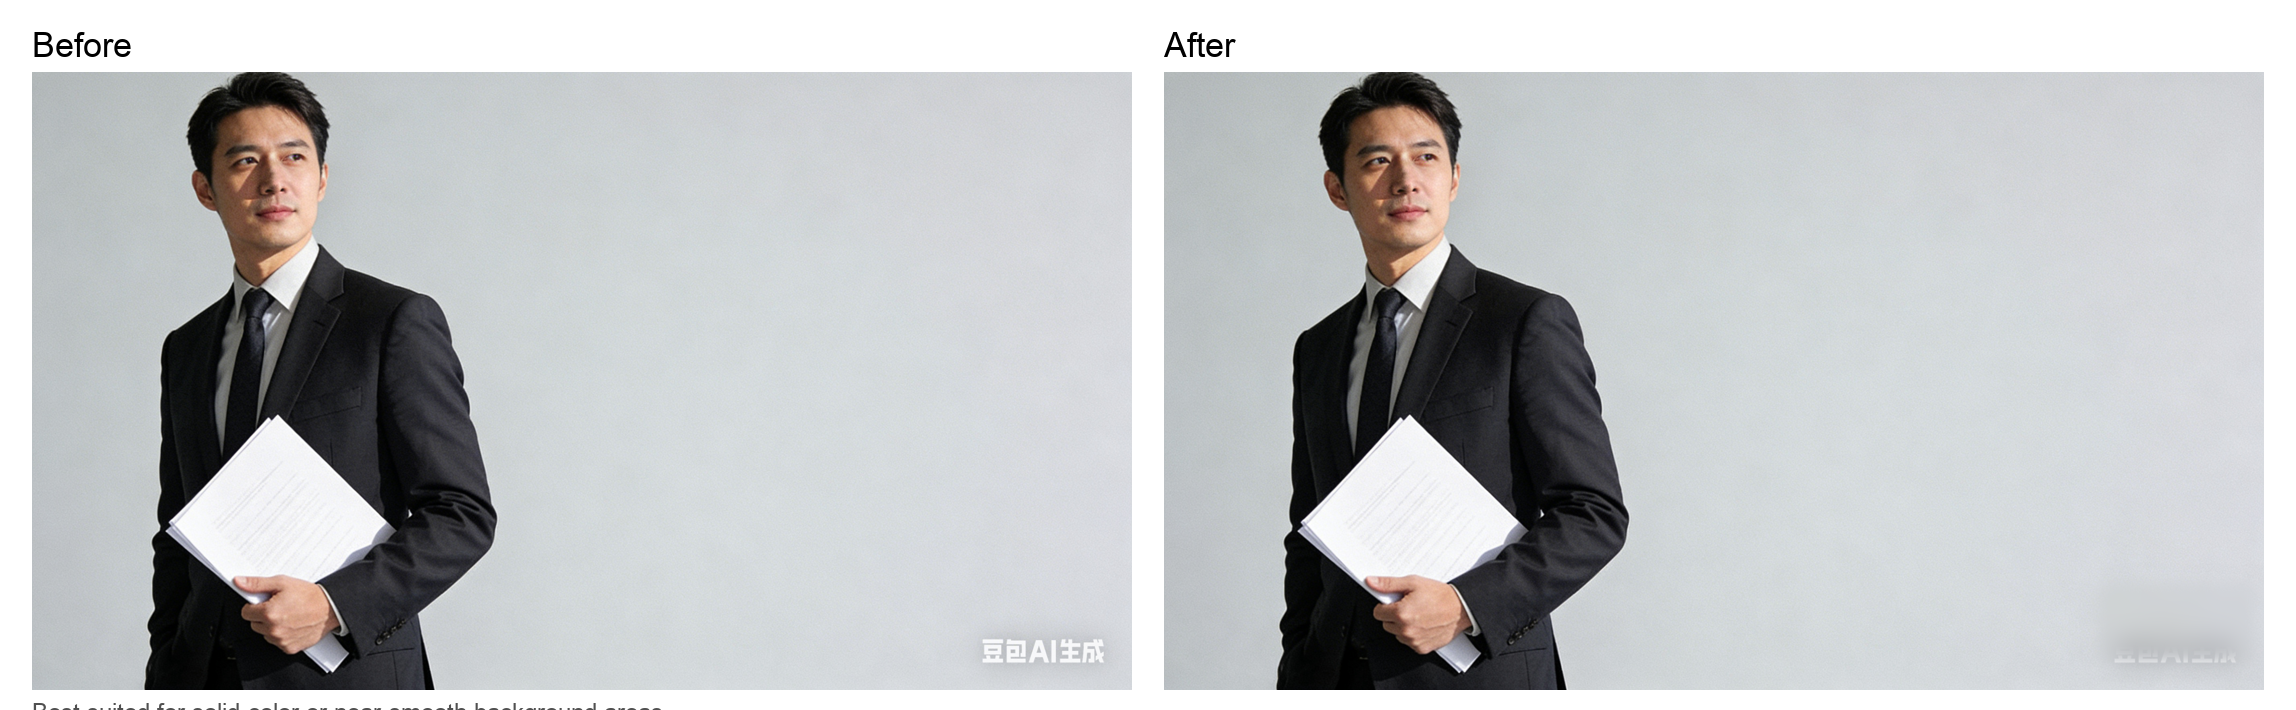
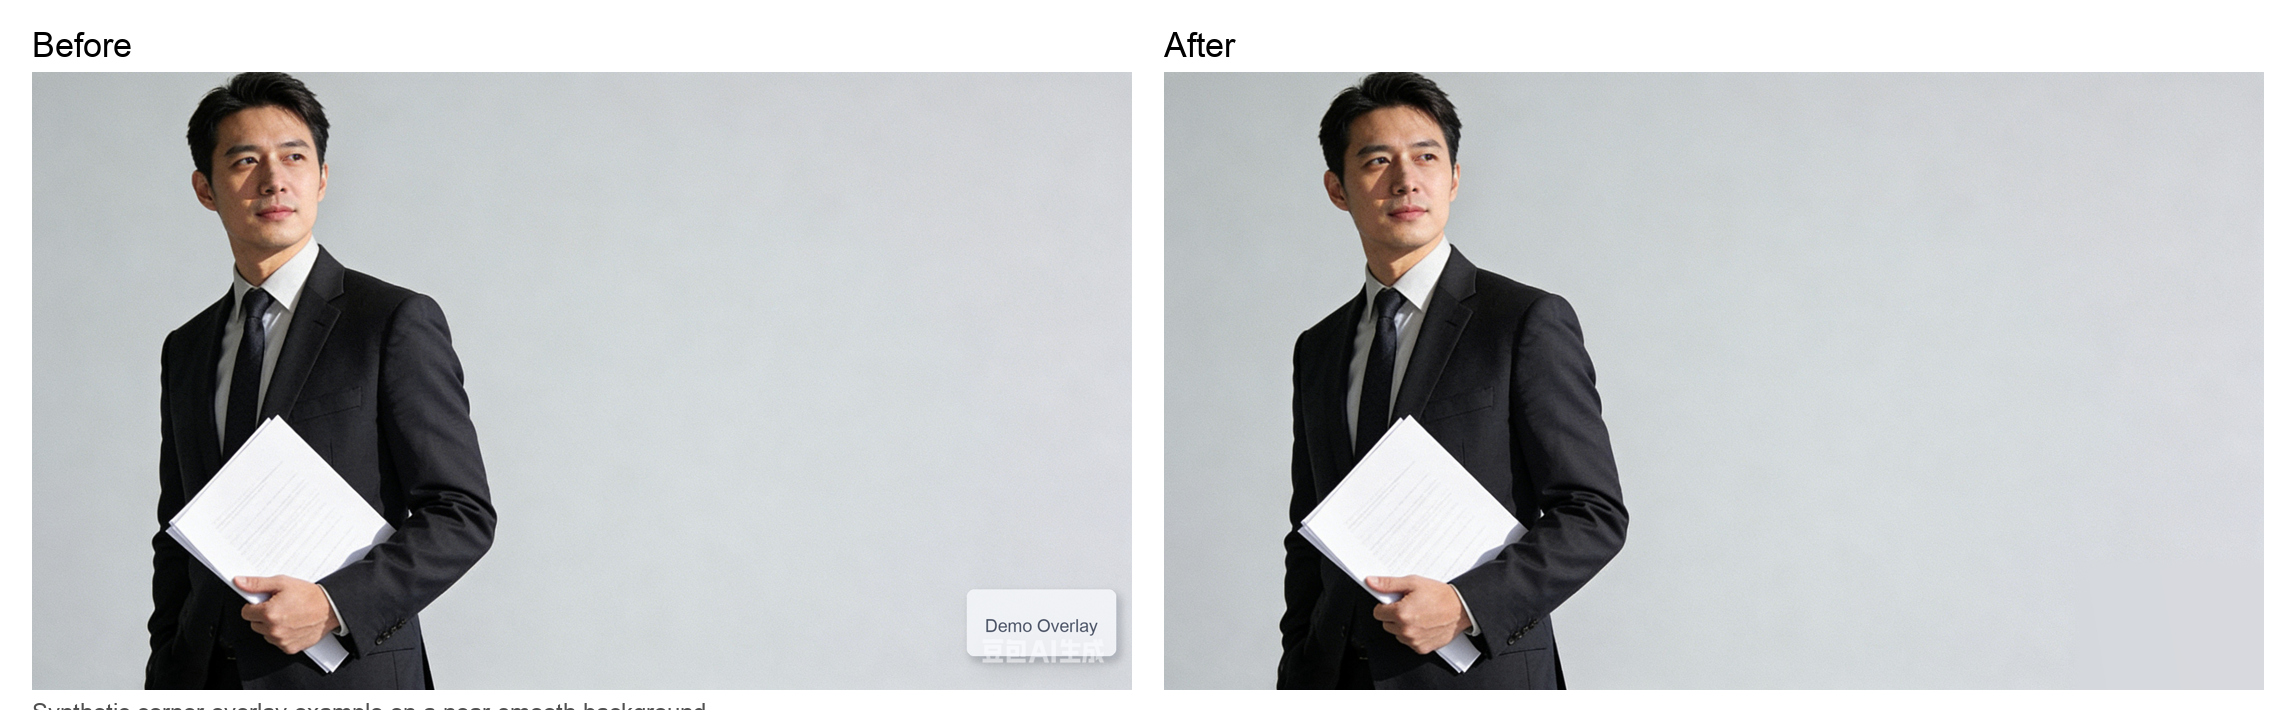
Refine synthetic README example

Changed region(s): [[0.402, 0.8056, 0.4948, 0.9296], [0.0, 0.9915, 0.3092, 1.0], [0.9277, 0.8986, 0.9586, 0.9296]]

diff --git a/README_EN.md b/README_EN.md
@@ -4,6 +4,7 @@
 
 This tool is intended for cleaning up corner text, logos, or other overlays in images you own or are authorized to edit.
 It works best on solid-color, gradient, or near-smooth background areas.
+The comparison image below uses a synthetic corner overlay example to show the recommended use case.
 
 ![Before and after](./assets/before_after_case3.png)
 
@@ -41,7 +42,9 @@ python3 remove_watermark.py -i input.jpg -o output.jpg -m 2
 ```text
 remove_print/
 ├── assets/
-│   └── before_after_case3.png
+│   ├── before_after_case3.png
+│   ├── example_people_clean.png
+│   └── example_people_overlay.png
 ├── remove_watermark.py
 ├── requirements.txt
 ├── README.md
@@ -49,7 +52,7 @@ remove_print/
 ```
 
 - `remove_watermark.py`: CLI entrypoint and main processing logic
-- `assets/`: sample images used by the README
+- `assets/`: sample images and synthetic overlay demo assets used by the README
 - `requirements.txt`: runtime dependencies
 - `README.md` / `README_EN.md`: Chinese and English documentation
 
@@ -59,12 +62,12 @@ Corner overlay cleanup:
 
 ```bash
 python3 remove_watermark.py \
-  -i ./people.png \
-  -o ./people_clean.png \
+  -i ./your_image.png \
+  -o ./your_image_clean.png \
   -m 1 \
   --corner bottom-right \
   --roi 2350,1300,320,130 \
-  --mask-output ./people_mask.png
+  --mask-output ./your_image_mask.png
 ```
 
 Repeated overlay cleanup:
@@ -84,6 +87,7 @@ python3 remove_watermark.py \
 - If auto-detection is unstable, provide `--roi x,y,w,h` to constrain the target area.
 - Use `--mask-output` first when tuning parameters, then adjust `--strength`.
 - The current workflow is best suited to solid-color, gradient, or near-smooth background areas; results on highly textured backgrounds may be less stable.
+- The README example is a synthetic overlay demo and should not be interpreted as a guarantee for all real-world images.
 
 ## Compliance
 

diff --git a/README.md b/README.md
@@ -4,6 +4,7 @@
 
 用于清理你自有图片中的角落文字、Logo 或其他覆盖层标记。
 更适合纯色、渐变色或接近平滑的背景区域。
+下面的对比图使用的是自制角落覆盖层示例，用来展示推荐场景下的效果。
 
 ![前后对比](./assets/before_after_case3.png)
 
@@ -41,7 +42,9 @@ python3 remove_watermark.py -i input.jpg -o output.jpg -m 2
 ```text
 remove_print/
 ├── assets/
-│   └── before_after_case3.png
+│   ├── before_after_case3.png
+│   ├── example_people_clean.png
+│   └── example_people_overlay.png
 ├── remove_watermark.py
 ├── requirements.txt
 ├── README.md
@@ -49,7 +52,7 @@ remove_print/
 ```
 
 - `remove_watermark.py`：命令行入口和主要处理逻辑
-- `assets/`：README 中使用的示例图片资源
+- `assets/`：README 中使用的示例图片资源和 synthetic overlay 案例图
 - `requirements.txt`：运行依赖
 - `README.md` / `README_EN.md`：中文和英文文档
 
@@ -59,12 +62,12 @@ remove_print/
 
 ```bash
 python3 remove_watermark.py \
-  -i ./people.png \
-  -o ./people_clean.png \
+  -i ./your_image.png \
+  -o ./your_image_clean.png \
   -m 1 \
   --corner bottom-right \
   --roi 2350,1300,320,130 \
-  --mask-output ./people_mask.png
+  --mask-output ./your_image_mask.png
 ```
 
 全图重复覆盖层清理：
@@ -84,6 +87,7 @@ python3 remove_watermark.py \
 - 自动识别不稳时，优先直接给 `--roi x,y,w,h`，这样掩码只会在该矩形内扩张。
 - 建议先用 `--mask-output` 检查掩码是否覆盖完整，再调整 `--strength`。
 - 当前工具更适合纯色、渐变色或接近平滑的背景区域；在复杂纹理背景上，结果可能不稳定。
+- README 中的案例图是 synthetic overlay 示例，不代表对所有真实图片都能达到相同视觉效果。
 
 ## 合规使用
 
